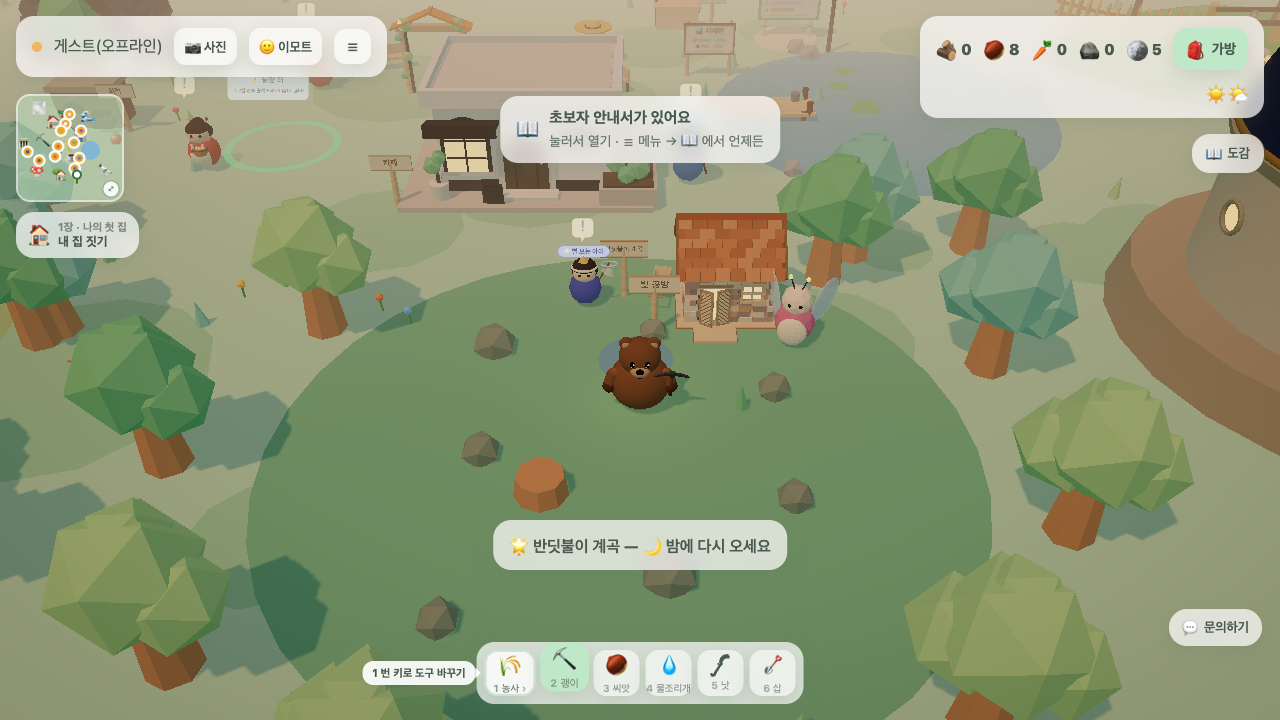
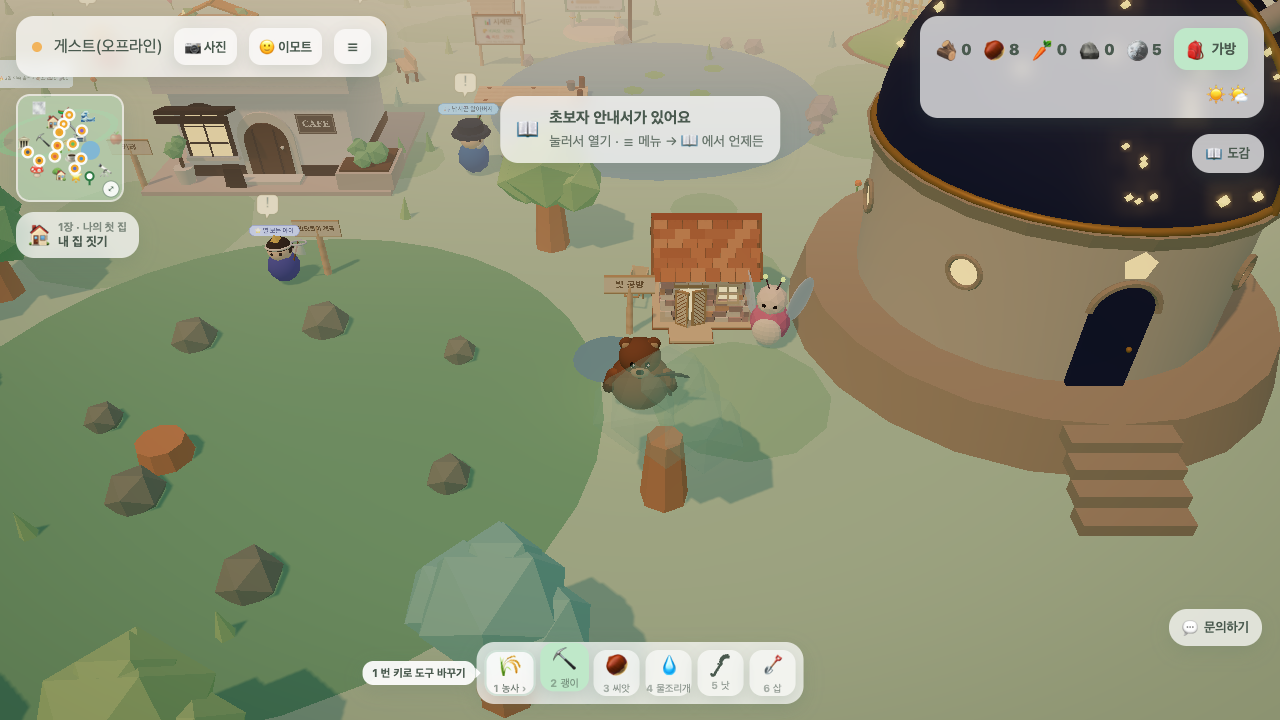
feat: move light workshop to the open ground between the glade and the observatory

diff --git a/js/game.js b/js/game.js
@@ -117,7 +117,7 @@ import {
 import {
   INT, ROOF_Y, LAKE_R, BENCH, KITCHEN, SHOP, MARKET, RANK, SELL_ICO_G, FARM, FARM_GATE, MINE, MINE_HALF, MINE_GATE,
   PIER, onPier, COOP_STREAK, COOP, PARK_BENCHES, COOP_COST, COOP_FEED, GLADE, GLADE_R, BUG_KINDS, CAFE_GATE, MUSEUM_GATE,
-  OBSERVATORY, OBSERVATORY_GATE, OBSERVATORY_R, DREAM, MUSEUM, CAFE, CAFE_HALF, CAFE_ORDERS, CAFE_BONUS, CAFE_SEATS, CAFE_BOARD, CAFE_GUESTS, cafeGuestDef, FOREST, FOREST_R,
+  OBSERVATORY, OBSERVATORY_GATE, OBSERVATORY_R, LIGHT_WORKSHOP, DREAM, MUSEUM, CAFE, CAFE_HALF, CAFE_ORDERS, CAFE_BONUS, CAFE_SEATS, CAFE_BOARD, CAFE_GUESTS, cafeGuestDef, FOREST, FOREST_R,
   FOREST_LOGS, FOREST_LOG_R, FOREST_LOG_SPOTS, FORAGE_RESPAWN, FORAGE_KINDS, DOCK_GATE, DOCK_POND, DOCK_POND_R, RIVER,
   RIVER_DOCK_HALF, RIVER_W, RIVER_LEN, BOAT_RUNS_PER_DAY, BOAT_LAMPS, BOAT_BASE_SPEED, BOAT_BOOST_CD, RIVER_OBS, RIVER_PICKS,
   BOAT_UPGRADES, SHOP_POS, SHOP_DOOR, MIST_GATE, MIST, MIST_HALF, MIST_WAVES, TREE_LIGHT_MAX, MIST_DRAIN, SOOTHE_GLOW,
@@ -2860,6 +2860,7 @@ function buildWorld() {
       || dist2D({ x, z }, { x: MUSEUM_GATE.x, z: MUSEUM_GATE.z + 5 }) < 3.5   //    계단 앞 진입로도 틔운다
       || dist2D({ x, z }, OBSERVATORY_GATE) < 6.2   // 🔭 천문대 — 돔과 계단이 나무에 가리지 않게
       || dist2D({ x, z }, { x: OBSERVATORY_GATE.x, z: OBSERVATORY_GATE.z + 5 }) < 3.8
+      || dist2D({ x, z }, LIGHT_WORKSHOP) < 4   // 🏮 빛 공방 오두막·손수레·연못 위엔 나무 금지
       || dist2D({ x, z }, NEIGHBOR_GATE) < 3   // 🏡 이웃 마을 팻말이 나무에 가리지 않게
       || orchardGateBlocks(x, z)   // 🍎 과수원 입구 잔디 판·울타리 위엔 벌목 나무 금지
       || dist2D({ x, z }, RANK) < 3.5   // 🏆 랭킹 게시판이 나무에 가리지 않게
@@ -2894,6 +2895,7 @@ function buildWorld() {
     const x = Math.cos(a) * r, z = Math.sin(a) * r;
     if (dist2D({ x, z }, SEA_COVE) < SEA_COVE.r + 0.5) continue;  // 🌊 후미 물 위 제외
     if (dist2D({ x, z }, SHOP_POS) < 3.2) continue;               // 🏪 가게 바닥은 두께 0.09 라 풀(높이 0.7)이 마루를 뚫고 올라온다
+    if (dist2D({ x, z }, LIGHT_WORKSHOP) < 3.2) continue;            // 🏮 빛 공방 받침도 같은 이유
     if (plazaScatterBlocks(x, z, 0.5)) continue;
     grassBuckets[i % 3].push({ x, y: 0.35, z, ph: Math.random() * Math.PI * 2 });
   }
@@ -4466,6 +4468,7 @@ function buildEnvironment() {
     if (dist2D({ x, z }, MIST_GATE) < 4.5) continue;                 // 🌫 안개 숲 입구 제외
     if (dist2D({ x, z }, SHOP_POS) < 3.2) continue;                  // 🏪 꾸미기 가게 터 제외(반치수 2.56 + 여유)
     if (dist2D({ x, z }, OBSERVATORY_GATE) < 6.2) continue;          // 🔭 천문대 기단·계단 제외
+    if (dist2D({ x, z }, LIGHT_WORKSHOP) < 3.2) continue;            // 🏮 빛 공방 받침·디딤판 위 제외
     if (dist2D({ x, z }, NEIGHBOR_GATE) < 1.5) continue;             // 🏡 이웃 마을 팻말 밑
     if (plazaScatterBlocks(x, z, 1)) continue;
     makeFlower(x, z, flowerCols[i % flowerCols.length]);

diff --git a/js/spaces/doors.js b/js/spaces/doors.js
@@ -313,7 +313,7 @@ export function updateDoorInteract() {
   $w.nearRank = inVillage && !nearKitchen && !nearBench && !nearShop && !nearMarket && dist2D(RANK, player.position) < 1.8; // 🏆 랭킹 게시판(중앙 배치라 반경 타이트 — 스폰 1.9에서 안 뜸)
   $w.nearCoop = inVillage && !nearKitchen && !nearBench && !nearShop && !nearMarket && !nearRank && dist2D(COOP, player.position) < 2.4; // 🐔 닭장
   $w.nearCosShop = inVillage && !nearKitchen && !nearBench && !nearShop && !nearMarket && !nearRank && !nearCoop && dist2D(SHOP_DOOR, player.position) < 2.8; // 🏪 꾸미기 가게(마을 서쪽)
-  $w.nearLightWorkshop = !indoor && !nearCosShop && dist2D(LIGHT_WORKSHOP, player.position) < 3.2;   // 🏮 빛 공방(계곡 입구) — 오두막(충돌 1.6)+반디 요정 앞에 서면 중심에서 ~3
+  $w.nearLightWorkshop = !indoor && !nearCosShop && dist2D(LIGHT_WORKSHOP, player.position) < 3.2;   // 🏮 빛 공방(계곡·천문대 사이) — 오두막(충돌 1.6)+반디 요정 앞에 서면 중심에서 ~3
   // 🌾 수확제 광장 — 기부함·좌판·명판(마을 동쪽 멀리라 다른 시설과 겹치지 않는다)
   const plazaHere = inVillage && !nearRank ? plazaSpot(player.position) : null;
   // 🔥 화덕(마을) · 🫙 발효통(텃밭 마당) — 고정 시설과 달리 플레이어가 놓는다.

diff --git a/js/spaces/glade.js b/js/spaces/glade.js
@@ -12,7 +12,7 @@ import {
   spawnFloatText, spawnSparkle, spawnTree, trackGateBlocked, tryUnlockDrop, ui,
 } from '../game.js';   // 🔁 순환 import — 함수 안에서만 쓴다(로딩 시점엔 안 읽는다: verify-extract (d))
 import { trackEvent } from '../analytics.js';
-import { BUG_KINDS, CAFE_GATE, GLADE, GLADE_R } from '../data/places.js';
+import { BUG_KINDS, CAFE_GATE, GLADE, GLADE_R, LIGHT_WORKSHOP } from '../data/places.js';
 import { PAL } from '../data/world.js';
 import { NIGHT_MIN } from '../daynight.js';
 import { rollKind } from '../dex-gates.js';
@@ -39,6 +39,7 @@ export function buildGlade() {
     const a = (i / 11) * Math.PI * 2 + 0.25, r = GLADE_R + 1.4 + Math.random() * 1.2;
     const tx = GLADE.x + Math.cos(a) * r, tz = GLADE.z + Math.sin(a) * r;
     if (dist2D({ x: tx, z: tz }, CAFE_GATE) < 5.5) continue;   // ☕ 카페 시야를 가리지 않게 비움
+    if (dist2D({ x: tx, z: tz }, LIGHT_WORKSHOP) < 4) continue;   // 🏮 빛 공방 자리(링 동쪽 바깥)에 박히지 않게
     spawnTree(tx, tz);
   }
   obstacles.push({ x: GLADE.x, z: GLADE.z, r: GLADE_R });   // 계곡 안엔 밭 금지(빈터 유지)

diff --git a/js/spaces/light-workshop.js b/js/spaces/light-workshop.js
@@ -1,5 +1,5 @@
 // =============================================================
-//  🏮 빛 공방 — 반딧불이 계곡 연못가 오두막 + 공방 주인(🧚 반디 요정)
+//  🏮 빛 공방 — 계곡과 천문대 사이 빈터의 연못가 오두막 + 공방 주인(🧚 반디 요정)
 //  ⚠ game.js 와 순환 import — 로딩 시점엔 game.js 값을 읽지 않는다(함수 안에서만).
 // =============================================================
 import { makeNameTag, makeSignpost, mergeGeos, obstacles, paintGeo, scene, solidCircle, vtxMat } from '../game.js';

diff --git a/dev/active/light-workshop/light-workshop-context.md b/dev/active/light-workshop/light-workshop-context.md
@@ -43,3 +43,6 @@
 - 메시 8개(오두막 1·불빛 1·주인 3·이름표·팻말 2) · 숨김 전후 렌더 호출 차이 16 = 옛 오두막과 동일(그림자·블룸 패스 포함 측정법)
 - 함정: 문 불빛 평면이 속 벽 앞면 5mm 뒤면 가려진다 · 벽 모서리 기둥은 행마다 한쪽 면만 차지(겹치면 깜빡임)
 - 실측 캡처: `mockups/hut-C-game-{pc-day,pc-night,phone-day}.png`
+- 📍 2026-10-08 자리 이동: 계곡 입구(9.6,20.6) → **계곡·천문대 사이 빈터 (17, 21.6)** — 사용자 "카페·계곡 팻말·주민과 겹쳐 답답". 후보 3곳 실측(P2·P3 은 무작위 나무가 가림)
+  - 무작위 배치 제외 구역 추가: 벌목 나무 <4 · 계곡 나무 링 <4(glade.js) · 꽃·풀 <3.2 — 없으면 나무가 오두막에 박힐 수 있다
+  - 계곡 링(최대 반경 9.6)+반폭 1.3, 천문대 기단 5.7+반폭+틈 0.9 를 테스트가 검사
